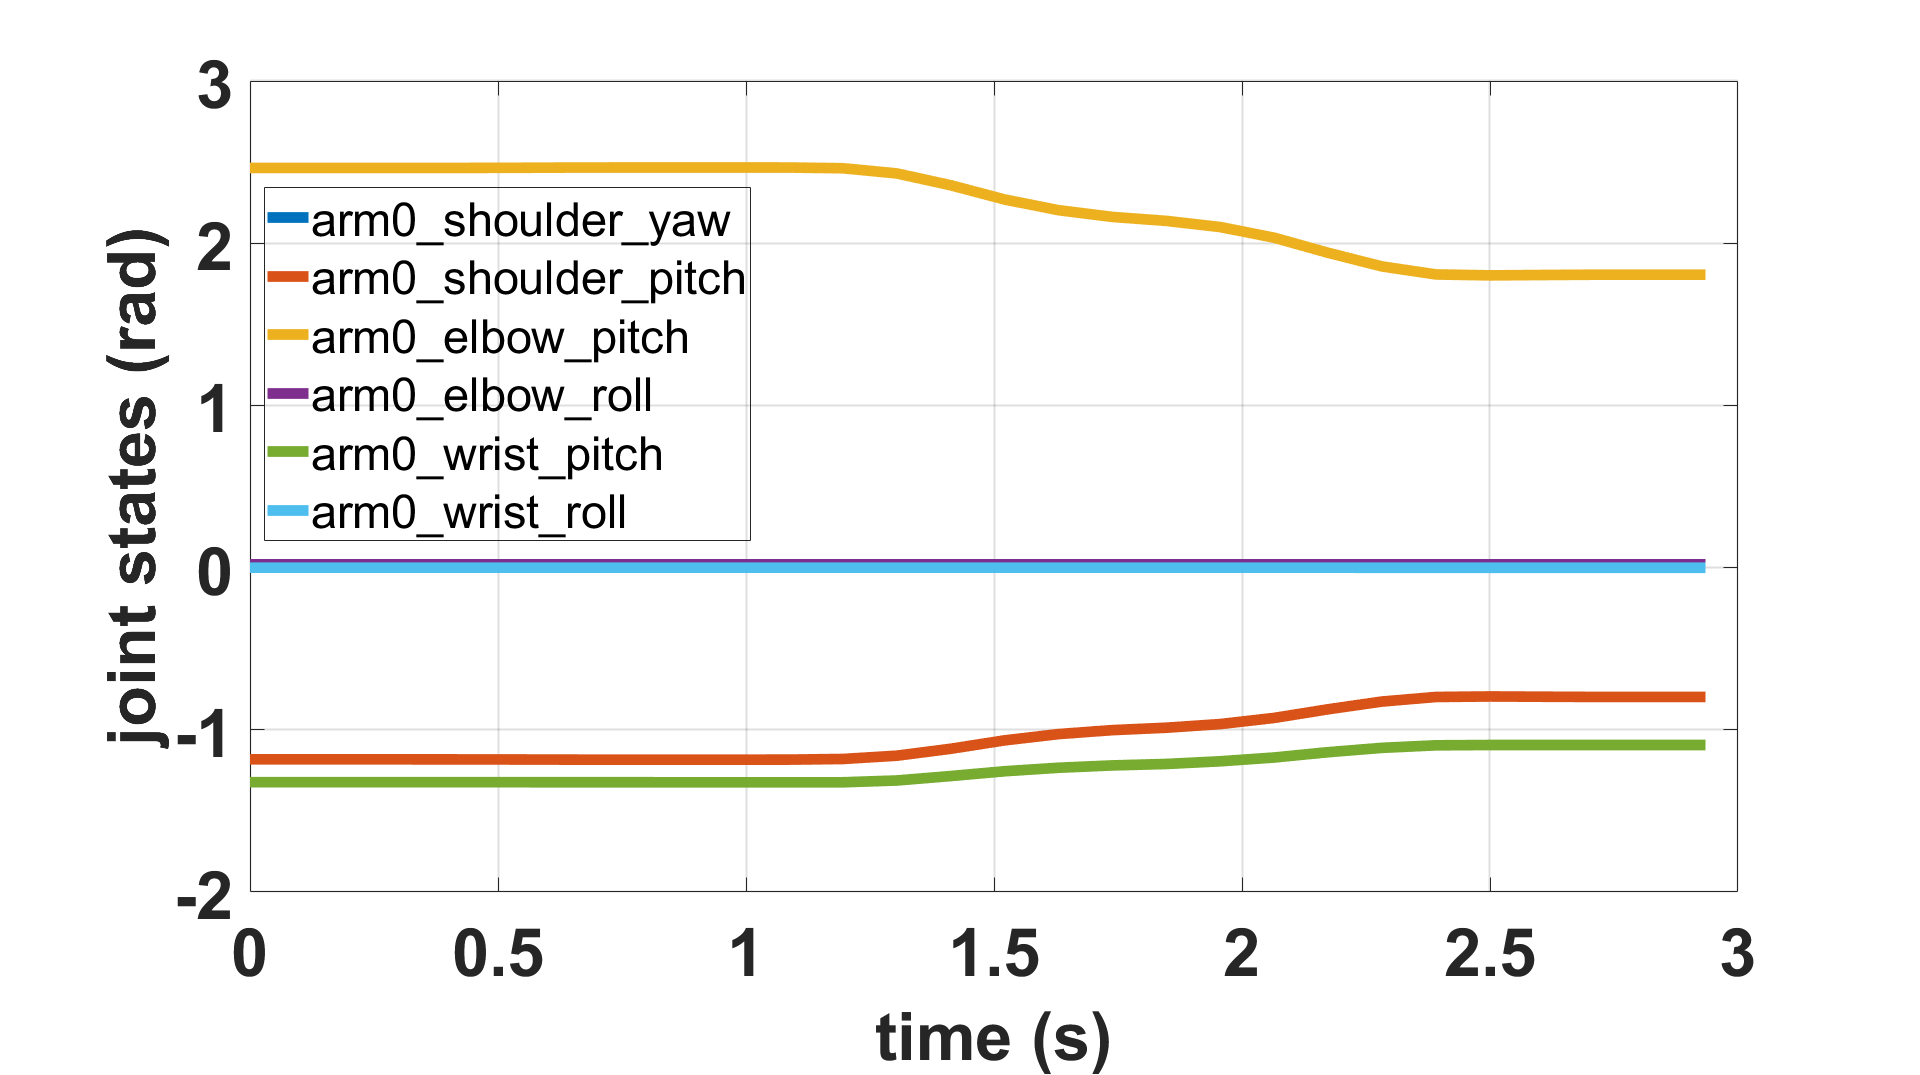
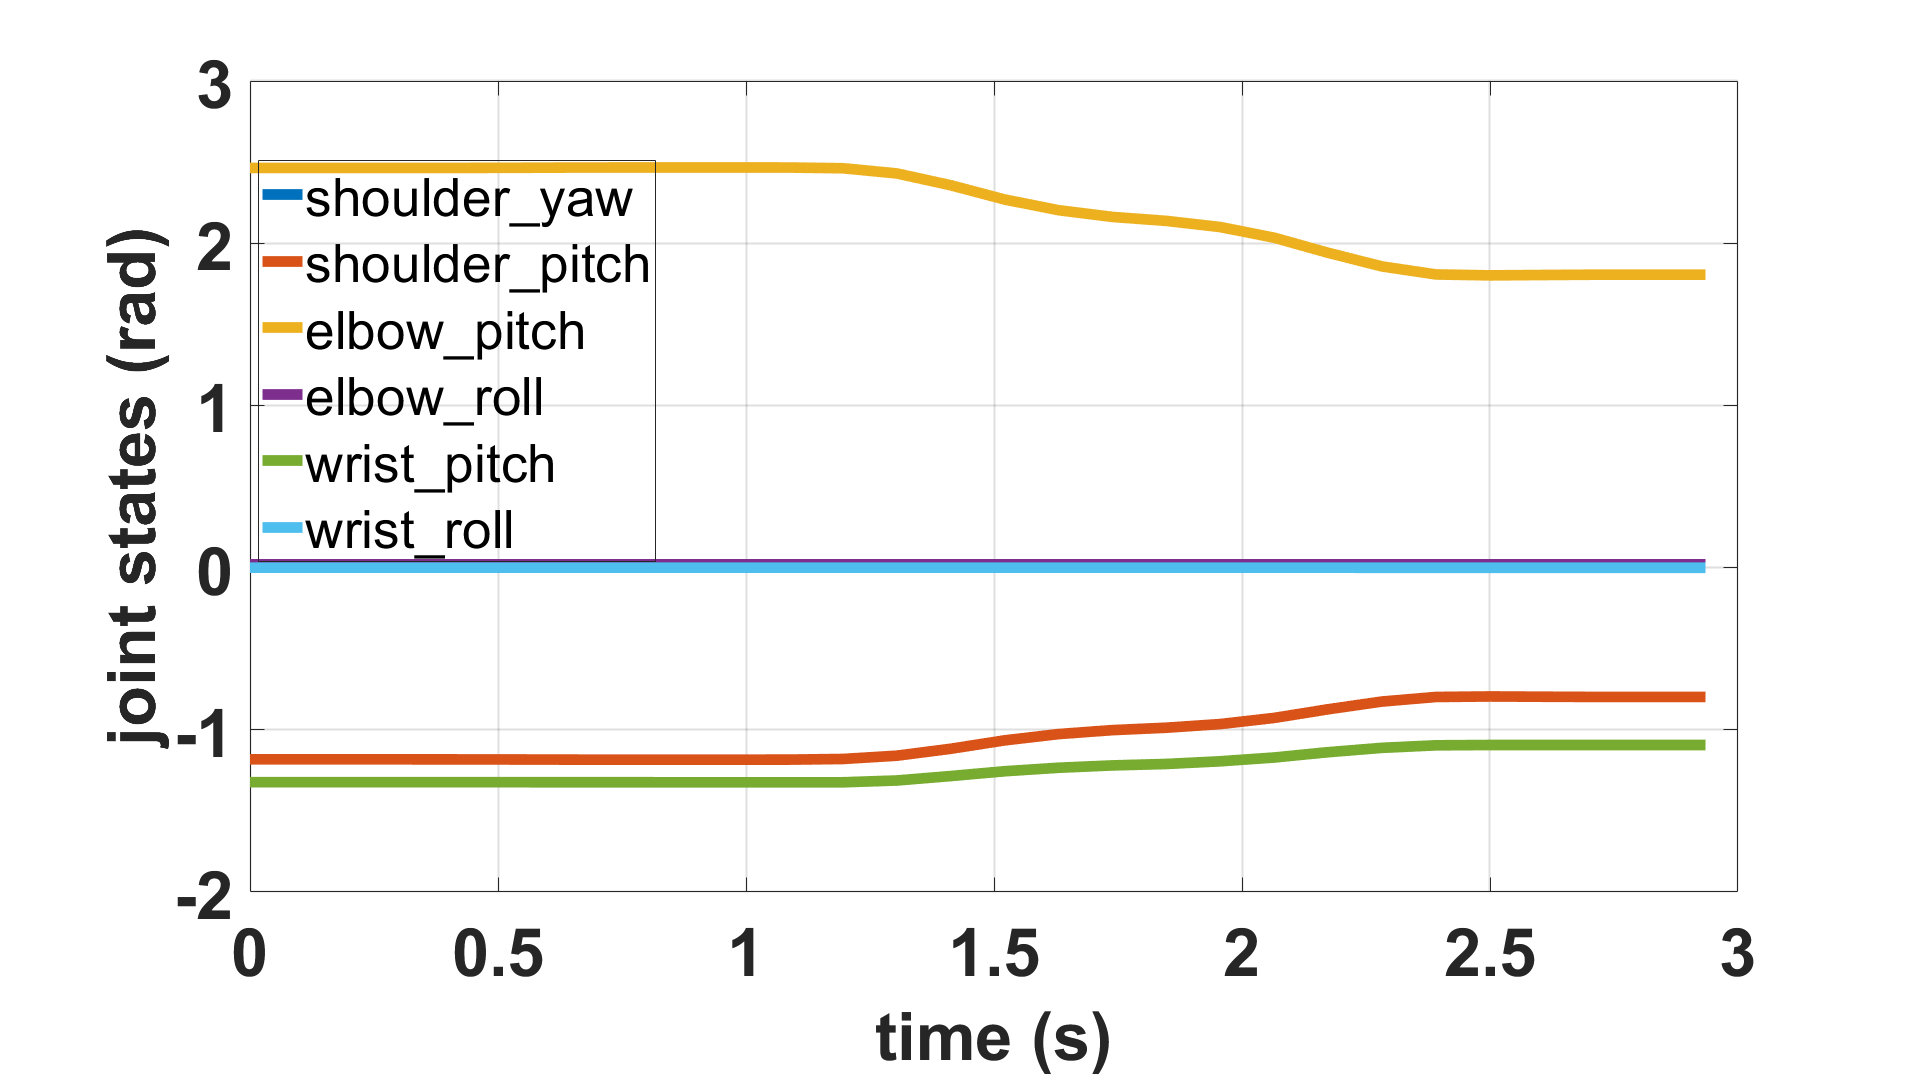
update pushing_a_drawer plot font sizes

Changed region(s): [[0.125, 0.1535, 0.4062, 0.5219]]

diff --git a/real_robot_data_plots_and_demos/pushing_a_drawer/ee_position_and_joint_states_plotter.m b/real_robot_data_plots_and_demos/pushing_a_drawer/ee_position_and_joint_states_plotter.m
@@ -166,7 +166,7 @@ end
 
 % Joint state column headers
 js_end_index = 28; % specify end to truncate saturated readings
-joint_names = {'arm0_shoulder_yaw', 'arm0_shoulder_pitch', 'arm0_elbow_pitch', 'arm0_elbow_roll', 'arm0_wrist_pitch', 'arm0_wrist_roll'};
+joint_names = {'shoulder_yaw', 'shoulder_pitch', 'elbow_pitch', 'elbow_roll', 'wrist_pitch', 'wrist_roll'};
 
 % Extract data and plot
 for i = 1:length(joint_names)
@@ -182,7 +182,7 @@ grid on
 % Set fontsizes for various plot parameters
 title_fontsize = 50;
 label_fontsize = 50;
-legend_fontsize = 35;
+legend_fontsize = 40;
 tick_fontsize = 50;
 grid_lw = 1.5;
 
@@ -207,8 +207,8 @@ ax_joint_states.GridLineWidth = grid_lw;
 
 % Set legend position
 legend_position = ax_joint_states.Legend.Position;
-shift_amount_x = -0.32; 
-shift_amount_y = 0.185; 
+shift_amount_x = -0.267; 
+shift_amount_y = 0.245; 
 ax_joint_states.Legend.Position = [legend_position(1) + shift_amount_x, legend_position(2)+ shift_amount_y, legend_position(3), legend_position(4)];
 
 % Plot Error between predicted and actual EE cartesian trajectory
@@ -290,7 +290,7 @@ ax_ee_traj_final = subplot(1, 1, 1, 'Parent', fig4);
 plot(ax_ee_traj_final, df_pred{:, 'PredEEX'} * 1000, ...
     df_pred{:, 'PredEEY'} * 1000, ...
     'b-o', 'LineWidth', 10, 'MarkerSize', 12, 'DisplayName', 'predicted trajectory');
-point_label_font_size = 15;
+point_label_font_size = 25;
 point_label_offset_y = -4;
 point_labels = 1:1:length(df_pred{:, 'PredEEX'} );
 labelpoints(df_pred{:, 'PredEEX'} * 1000, ...
@@ -323,7 +323,7 @@ ax_ee_traj_final.Legend.Location = "southwest";
 % Set fontsizes for various plot parameters
 title_fontsize = 35;
 label_fontsize = 35;
-legend_fontsize = 25;
+legend_fontsize = 35;
 tick_fontsize = 30;
 grid_lw = 1.5;
 
